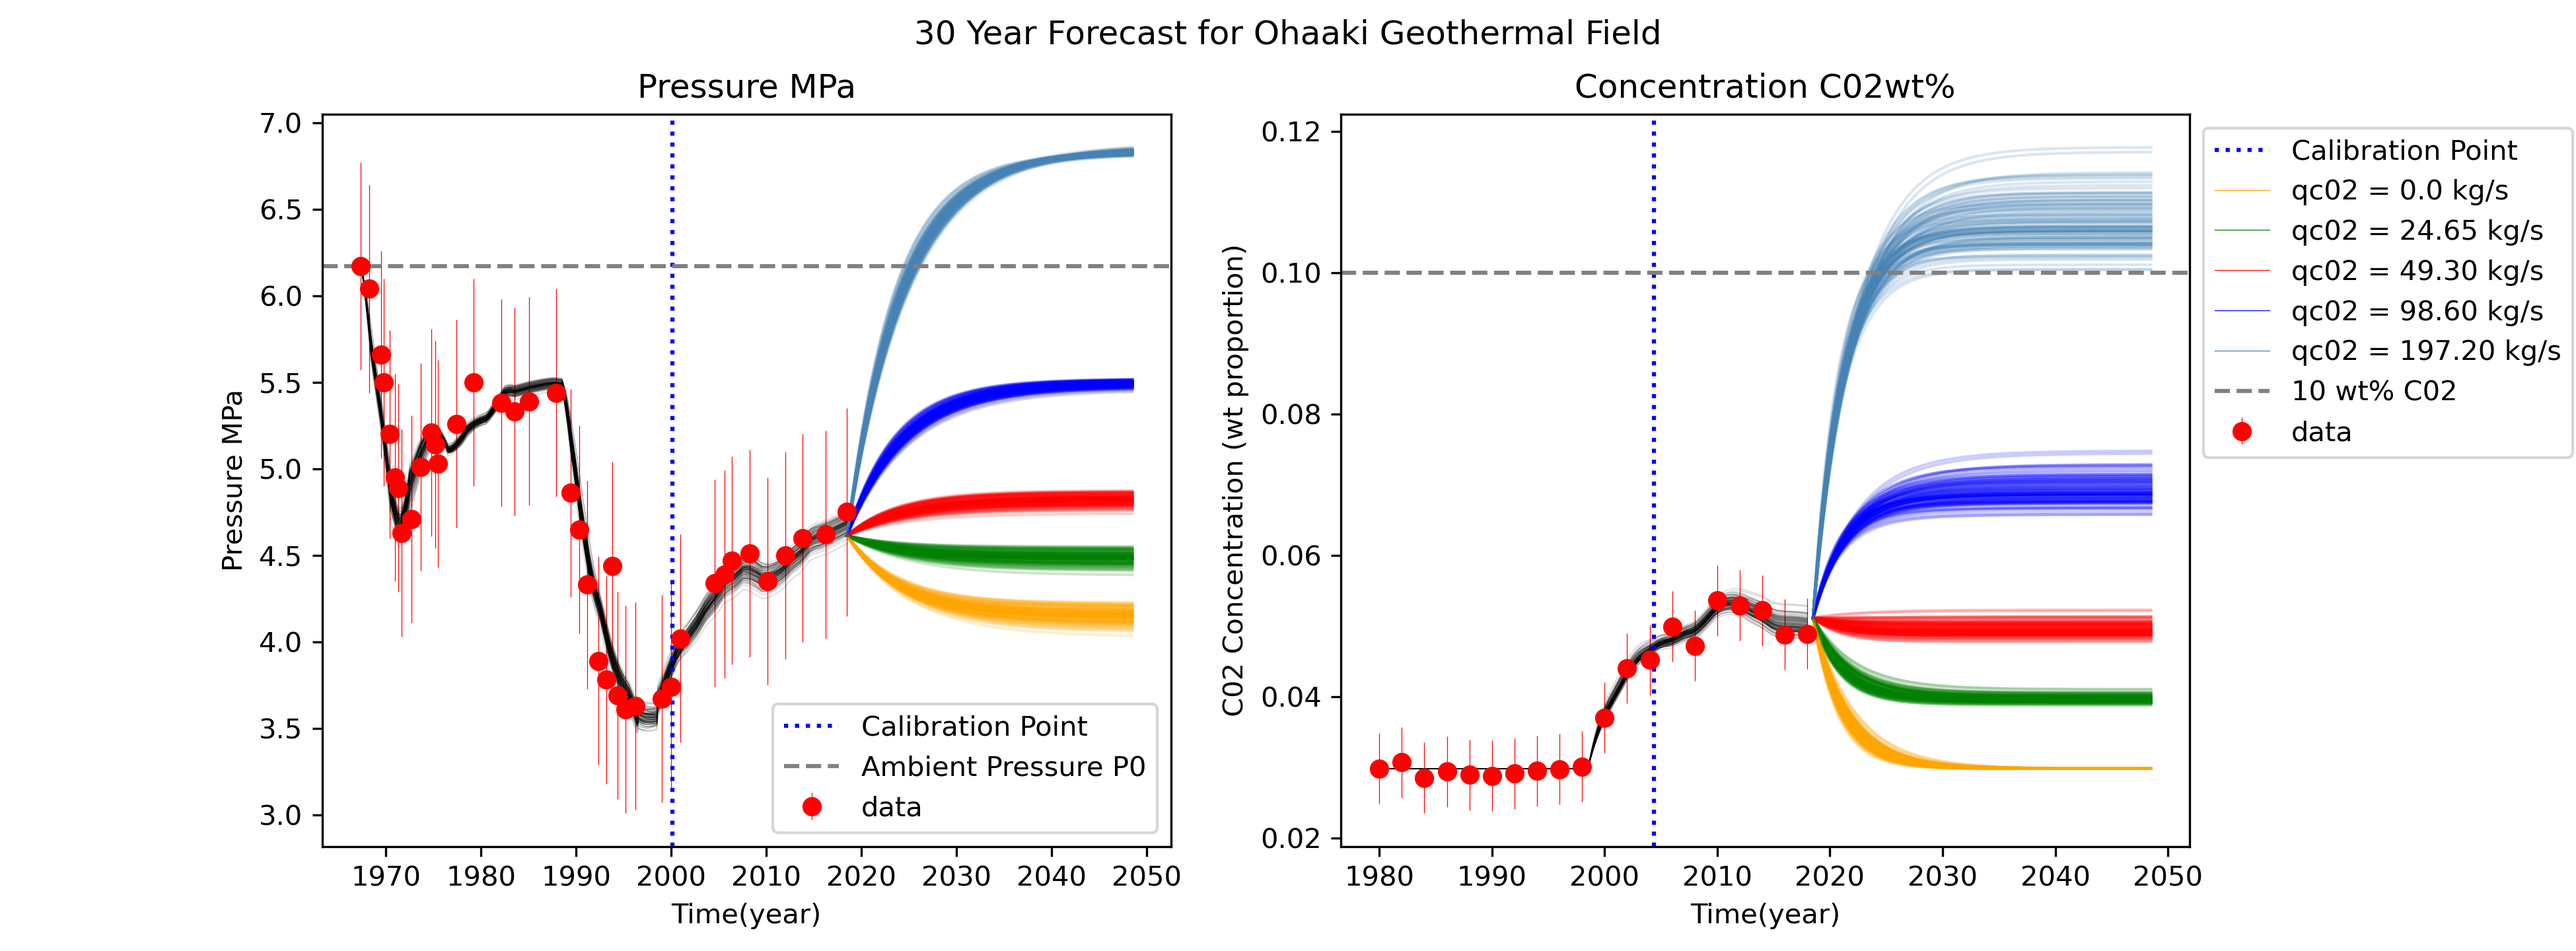
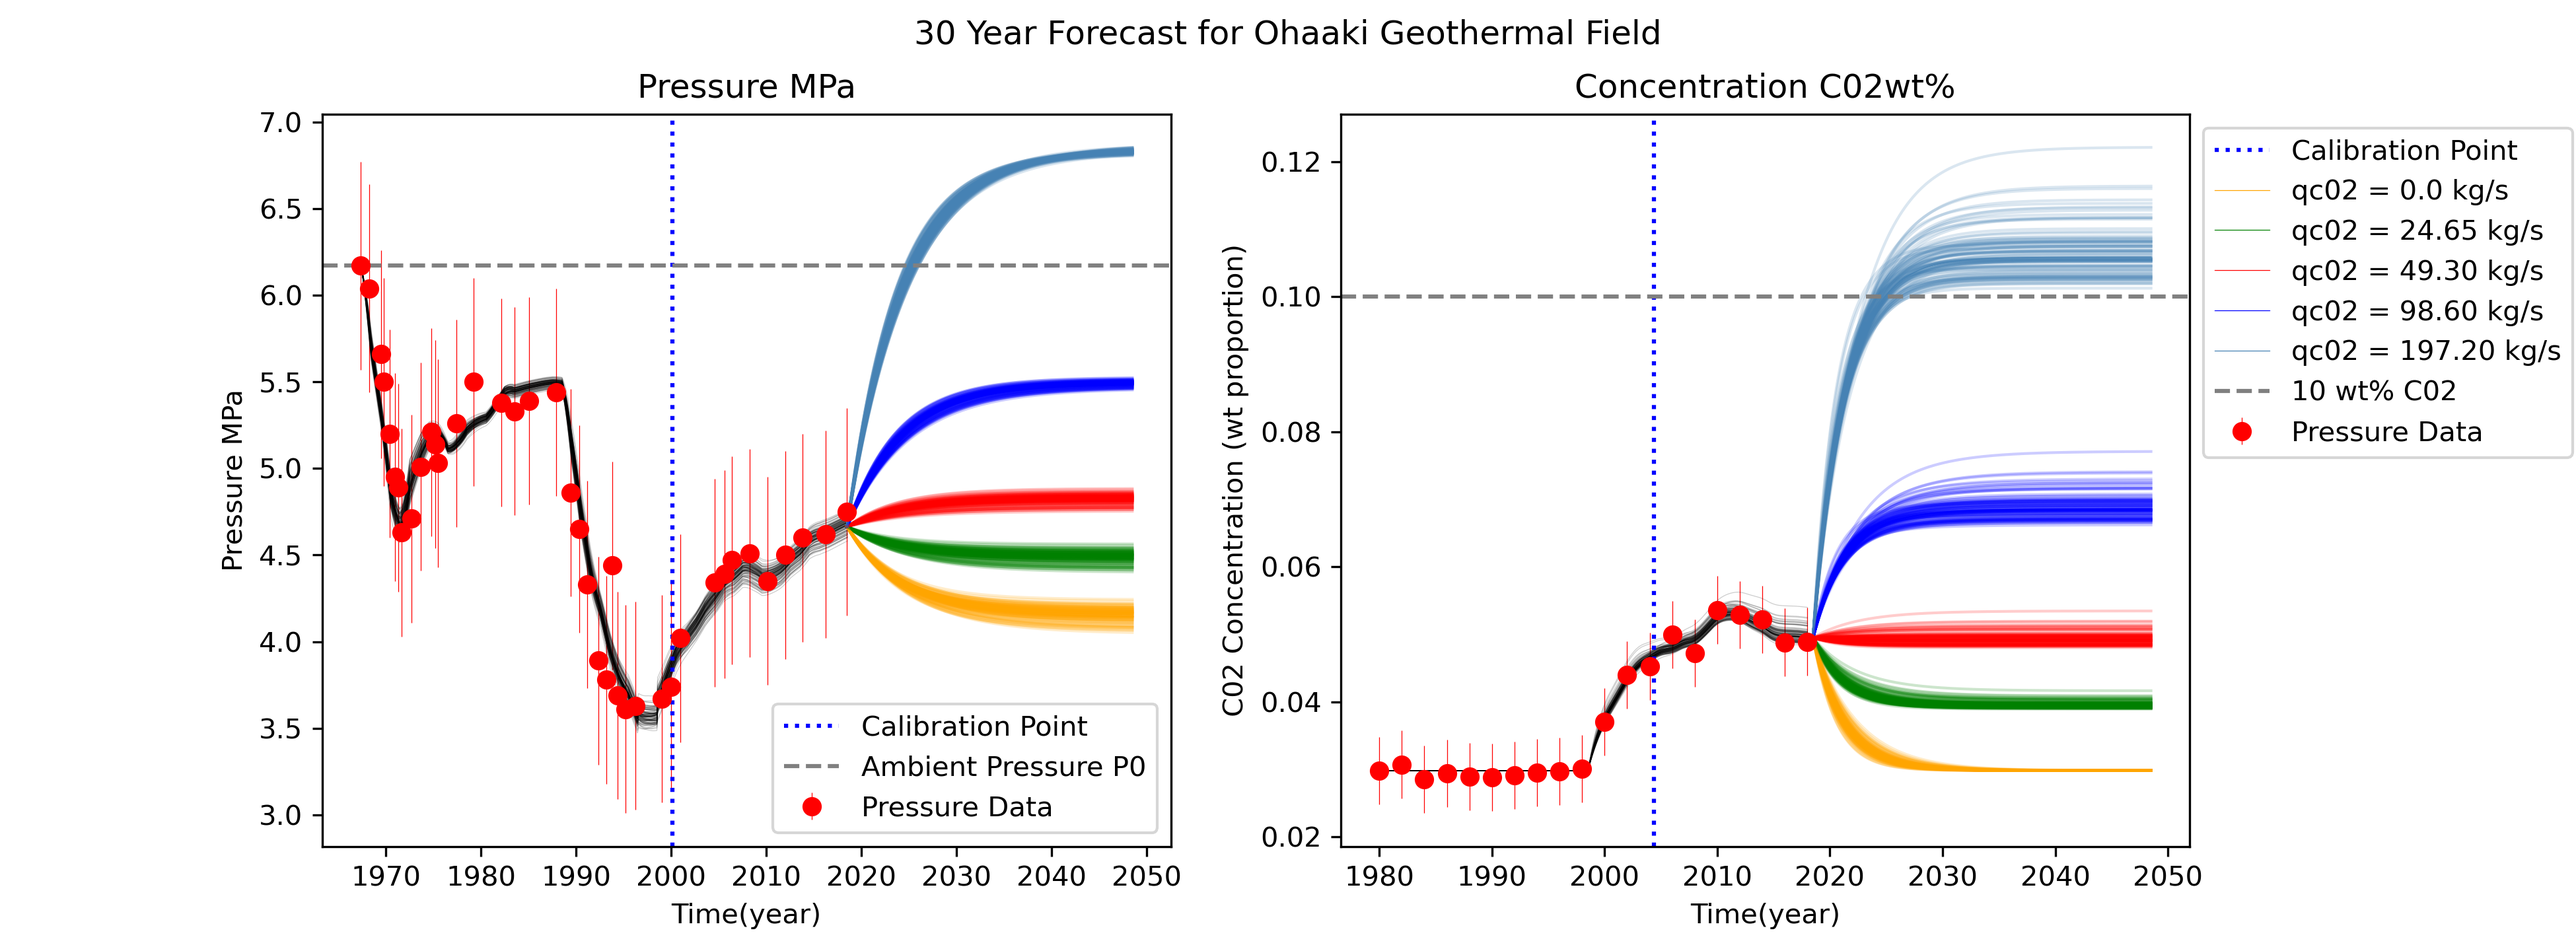
'merging'

diff --git a/project_1/main.py b/project_1/main.py
@@ -20,6 +20,7 @@ PARS_C = [a, b, d, m0]
 STEP = 0.04
 v=0.1
 
+
 # Pressure benchmarking plotter
 def plot_pressure_benchmark():
     """
@@ -47,7 +48,7 @@ def plot_pressure_benchmark():
 
     # plot the model solution
     ax1.plot(t_ode, p_ode, color = 'k', label = 'ODE')
-    ax1.set_title('ODE vs Data')
+    ax1.set_title('Pressure ODE vs Data')
     ax1.set_ylabel("Pressure(MPa)")
     ax1.set_xlabel("Year")
     ax1.legend()
@@ -72,8 +73,11 @@ def plot_pressure_benchmark():
     pars_formatted = []
     for i in range(len(PARS_P)):
         pars_formatted.append(np.format_float_scientific(PARS_P[i], precision = 3))
-    ax2.set_title('ODE vs Analytical solution  \n a=%s b=%s c=%s q=4.00'% (pars_formatted[0],pars_formatted[1],pars_formatted[2]))
+    ax2.set_title('Pressure ODE vs Analytical solution  \n a=%s b=%s c=%s q=4.00'% (pars_formatted[0],pars_formatted[1],pars_formatted[2]))
     ax2.legend()
+    ax2.set_xlabel("Year")
+    ax2.set_ylabel("Pressure(MPa)")
+
     plt.savefig('model_vs_ODE_analytical_pressure.png',dpi=300)
     plt.show()
     """
@@ -113,7 +117,7 @@ def plot_pressure_benchmark():
     plt.ylabel('Pressure Misfit (MPa)',fontsize=10)
     plt.xlabel('Time',fontsize=10)
 
-    plt.title('Misfit ODE vs interpolated data')
+    plt.title('Misfit of Pressure ODE and interpolated data')
     plt.savefig('misfitModel_vs_data_pressure',dpi=300)
     plt.show()
 
@@ -134,7 +138,7 @@ def plot_conc_benchmark():
     plt.plot(t_ode, c_ode * 100,color = 'black', label = 'ODE')
     plt.scatter(TIME_C, CONC * 100,color='r', marker = 'x', label ='Observations')
     plt.legend()
-    plt.title('ODE vs Data')
+    plt.title('Concentration ODE vs Data')
     plt.xlabel('Year')
     plt.ylabel('Concentration (% weight)')
     plt.savefig('model_vs_data_conc', dpi = 300)
@@ -150,7 +154,11 @@ def plot_conc_benchmark():
     parsc_formatted = []
     for i in range(len(PARS_C)):
         parsc_formatted.append(np.format_float_scientific(PARS_C[i], precision = 3))
-    plt.title('ODE vs Analytical solution  \n  d=%s m0=%s'% (parsc_formatted[2], parsc_formatted[3]))
+    plt.title('Concentration ODE vs Analytical solution  \n  d=%s m0=%s'% (parsc_formatted[2], parsc_formatted[3]))
+    plt.xlabel('Year')
+    plt.ylabel('Concentration (% weight)')
+
+
     plt.legend()
     #plt.savefig('conc_analytical_solution.png',dpi=300)
 
@@ -194,7 +202,7 @@ def plot_conc_benchmark():
     plt.ylabel('Concentration Misfit (% weight)',fontsize=10)
     plt.xlabel('Time',fontsize=10)
 
-    plt.title('Misfit ODE vs interpolated data')
+    plt.title('Misfit of Concentration ODE and interploated data')
     plt.savefig('misfitModel_vs_data_conc',dpi=300)
     plt.show()
 
@@ -214,9 +222,9 @@ def plot_model_predictions():
     # plot the data observations
     p1 = ax1.scatter(TIME_P, PRESSURE,color='k', s= 9, label = "Observations")
     # plot the model solution
-    ax1.plot(t_ode, p_ode, color = 'r', label = "ODE model")
+    ax1.plot(t_ode, p_ode, color = 'r', label = "Pressure model")
     tc_ode, c_ode = solve_conc_ode(conc_ODE_model, TIME_C[0], CONC[0], TIME_C[-1], STEP, PRESSURE[0], PARS_C)
-    p2, = ax2.plot(tc_ode, c_ode, color = 'r', label = "ODE model")
+    p2, = ax2.plot(tc_ode, c_ode, color = 'r', label = "Concentration model")
     ax2.scatter(TIME_C, CONC, color = 'k', s= 9, label ="Observations")
 
     # Set up paramters for forecast
@@ -248,6 +256,7 @@ def plot_model_predictions():
         #c02_groundwater_leaks[i, :] = np.cumsum(c02_groundwater_leaks[i, :])
 
 
+
     ax2.axhline(0.10, linestyle = "--", color = 'grey', label = '10 wt% C02' )    #ax1.axvline(t_ode[calibrationPointP], linestyle = '--', label = 'Calibration Point')
     ax1.axhline(PRESSURE[0], linestyle = "--", color = 'grey', label = 'Ambient Pressure P0')
     ax2.set_title("Concentration C02wt%")
@@ -256,7 +265,7 @@ def plot_model_predictions():
     ax2.legend(bbox_to_anchor=(1,1), loc="upper left")
     ax1.legend()
     ax1.set_xlabel("Time(year)")
-    ax2.set_xlabel
+    ax2.set_xlabel("Time(year)")
 
     ax1.set_ylabel("Pressure MPa")
     ax2.set_ylabel("C02 Concentration (wt proportion)")
@@ -509,8 +518,8 @@ def plot_conc_pressure_uncertainty(samples):
 
     ax1.axvline(tm[calibrationPointP], color='b', linestyle=':', label='Calibration Point')
     ax2.axvline(tc[calibrationPointC], color='b', linestyle=':', label='Calibration Point')
-    ax1.errorbar(TIME_P, PRESSURE, yerr=0.6,fmt='ro', elinewidth = 0.3, label='data')
-    ax2.errorbar(TIME_C, CONC, yerr=0.005, fmt='ro',elinewidth = 0.3, label='data')
+    ax1.errorbar(TIME_P, PRESSURE, yerr=0.6,fmt='ro', elinewidth = 0.3, label='Pressure Data')
+    ax2.errorbar(TIME_C, CONC, yerr=0.005, fmt='ro',elinewidth = 0.3, label='Concentration Data')
 
     ax1.axhline(PRESSURE[0], linestyle = "--", color = 'grey', label = 'Ambient Pressure P0')
     ax2.set_title("Concentration C02wt%")
@@ -553,8 +562,8 @@ def plot_uncertainty_forecast(samples):
     ax1.axvline(tm[calibrationPointP], color='b', linestyle=':', label='Calibration Point')
     ax2.axvline(tc[calibrationPointC], color='b', linestyle=':', label='Calibration Point')
 
-    ax1.errorbar(TIME_P, PRESSURE, yerr=0.6,fmt='ro', elinewidth = 0.3, label='data')
-    ax2.errorbar(TIME_C, CONC, yerr=0.005, fmt='ro',elinewidth = 0.3, label='data')
+    ax1.errorbar(TIME_P, PRESSURE, yerr=0.6,fmt='ro', elinewidth = 0.3, label='Pressure Data')
+    ax2.errorbar(TIME_C, CONC, yerr=0.005, fmt='ro',elinewidth = 0.3, label='Pressure Data')
 
     # Set up paramters for forecast
     endTime = TIME_P[-1] + 30                     # 30 years projection
@@ -577,8 +586,8 @@ def plot_uncertainty_forecast(samples):
         ax1.plot(t, p, color=colours[i], linewidth = 0.3)
         ax2.plot(t, c, color=colours[i], label = labels[i] %(q_newInj), linewidth = 0.3)
 
-    p_finals = np.zeros((len(injRates), len(samples)))
-    c_finals = np.zeros((len(injRates), len(samples)))
+    p_finals = np.zeros([len(injRates), len(samples)])
+    c_finals = np.zeros([len(injRates), len(samples)])
     j = 0
 
     for d, m0, a, b, c in samples:
@@ -593,7 +602,16 @@ def plot_uncertainty_forecast(samples):
             ax1.plot(t, p, color=colours[i],alpha= 0.2, linewidth = 1)
             ax2.plot(t, c, color=colours[i], alpha= 0.2,linewidth = 1)
         j = j + 1
-
+    print("pressure")
+    p_mins = p_finals.min(axis =1)
+    p_maxs = p_finals.max(axis =1)
+    print(p_mins)
+    print(p_maxs)
+    print("conc")
+    c_mins = c_finals.min(axis =1)
+    c_maxs = c_finals.max(axis =1)
+    print(c_mins)
+    print(c_maxs)
     np.savetxt('final pressure uncertainty.csv', p_finals)
     np.savetxt('final conc uncertainty.csv', c_finals)
 
@@ -618,9 +636,9 @@ def plot_uncertainty_forecast(samples):
 
 if __name__ == "__main__":
     plot_pressure_benchmark()
-    plot_conc_benchmark()
-    plot_model_predictions()
+    #plot_conc_benchmark()
+    #plot_model_predictions()
     n_samples = 100
     samples = construct_all_samples(n_samples)
-    plot_conc_pressure_uncertainty(samples)
+    #plot_conc_pressure_uncertainty(samples)
     plot_uncertainty_forecast(samples)

diff --git a/project_1/uncertainty.py b/project_1/uncertainty.py
@@ -1,4 +1,3 @@
-from plot_lpm import *
 from lpm_model_functions import *
 
 
@@ -6,6 +5,8 @@ from lpm_model_functions import *
 STEP = 0.1
 tp, pA = load_pressure_data()
 a_best,b_best,c_best,cp, covariance = find_pars_pressure()
+np.random.seed(983765419)
+
 
 
 d_best, m0_best, cp_c, conc_covar = find_pars_conc()

diff --git a/project_1/lpm_model_functions.py b/project_1/lpm_model_functions.py
@@ -12,6 +12,7 @@ TIME_C, CONC = load_c02_wt_data()
 STEP = 0.05
 SIGMA_CONC = 0.005
 SIGMA_P = 0.6
+
 """
 ### PRESSURE FUNCTIONs
 """
